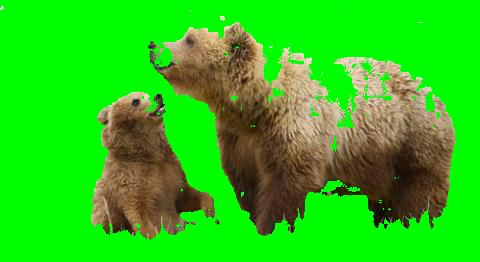
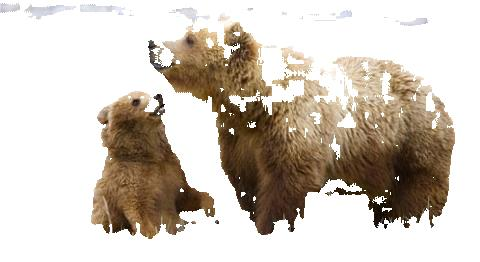
stuff

diff --git a/ForegroundDetection/src/main/java/Release/ForegroundDetection.java b/ForegroundDetection/src/main/java/Release/ForegroundDetection.java
@@ -33,7 +33,7 @@ public class ForegroundDetection {
     BasicNetwork network;
     BufferedImage image;
     int numberOfRegions;
-    double threshold = 0.85;
+    double threshold = 0.9;
     
     public ForegroundDetection(String path){
         network = (BasicNetwork)EncogDirectoryPersistence.loadObject(new File(path));
@@ -42,7 +42,7 @@ public class ForegroundDetection {
         
         BufferedImage image2 = ImageIO.read(new File(path));
         image = ImageIO.read(new File(path));
-        ImageProcessing.blur(image2, image);
+        //ImageProcessing.blur(image2, image);
         foreground = new int[image.getWidth()][image.getHeight()];
     }
     public BufferedImage getForegroundPixels(String path){
@@ -152,13 +152,16 @@ public class ForegroundDetection {
                 //System.out.println(perc+"");
                 
                 if(regions[x][y]==index){
-                    image.setRGB(x, y, Color.WHITE.getRGB());
+                    image.setRGB(x, y, Color.BLACK.getRGB());
+                }
+                else if(regions[x][y]==0){
+                   image.setRGB(x,y, Color.BLACK.getRGB());
                 }
                 else{
                 
                 //image.setRGB(x, y, Color.WHITE.getRGB());
-                if(perc>0.9){
-                    image.setRGB(x, y, Color.WHITE.getRGB());
+                if(perc>0.7){
+                    image.setRGB(x, y, Color.BLACK.getRGB());
                     //System.out.println(perc);
                 }
              
@@ -172,11 +175,12 @@ public class ForegroundDetection {
     }
     public void generateRegions(String path){
         ImageSegmentation ig = new ImageSegmentation(path);
-        ig.generateSeeds(1000);
-        ig.setThreshold(30);
+        ig.generateSeeds(500);
+        ig.setThreshold(42);
         ig.setMergeThreshold(20);
         
         numberOfRegions = ig.growRegion();
+        ig.testImage();
         ig.testMergeImage();
         regions = ig.returnRegions();
     }

diff --git a/ForegroundDetection/src/main/java/ImageSegmentation/ImageSegmentation.java b/ForegroundDetection/src/main/java/ImageSegmentation/ImageSegmentation.java
@@ -35,12 +35,14 @@ public class ImageSegmentation {
     BufferedImage mergeImage;
     int mergeThreshold = 40;
     int threshold = 100;
+    String filename = "";
     
     
     public ImageSegmentation(String path){
         seeds = new ArrayList<>();
         colors = new ArrayList<>();
         try {
+            filename = new File(path).getName();
             BufferedImage tempimage = ImageIO.read(new File(path));
             image = ImageIO.read(new File(path));
             image = ImageProcessing.blur(tempimage, image);
@@ -387,13 +389,7 @@ public class ImageSegmentation {
 
             }
         
-        int n = regions[5][5];
-        System.out.println("DEBUG "+n);
-        for(int x=0; x<regions.length; x++)
-            for(int y=0; y<regions[0].length; y++)
-                if(regions[x][y]==n){
-                mergeImage.setRGB(x, y, rgbRed);
-                }
+      
         
         mColors = mergedColors;
         return mergedColors.size();
@@ -451,6 +447,11 @@ public class ImageSegmentation {
         JFrame frame = new JFrame();
         JPanel panel = new JPanel();
         
+           try {
+            ImageIO.write(image, "jpg", new File("mainout/um"+filename));
+        } catch (IOException ex) {
+            Logger.getLogger(ImageSegmentation.class.getName()).log(Level.SEVERE, null, ex);
+        }
         ImageIcon img = new ImageIcon(image);
         
         JLabel imgLabel = new JLabel(img);
@@ -464,6 +465,11 @@ public class ImageSegmentation {
     public void testMergeImage(){
         JFrame frame = new JFrame();
         JPanel panel = new JPanel();
+        try {
+            ImageIO.write(mergeImage, "jpg", new File("mainout/m"+filename));
+        } catch (IOException ex) {
+            Logger.getLogger(ImageSegmentation.class.getName()).log(Level.SEVERE, null, ex);
+        }
         
         ImageIcon img = new ImageIcon(mergeImage);
         

diff --git a/ForegroundDetection/src/main/java/Release/Test.java b/ForegroundDetection/src/main/java/Release/Test.java
@@ -6,9 +6,11 @@
 package Release;
 
 import java.awt.image.BufferedImage;
+import java.io.File;
 import java.io.IOException;
 import java.util.logging.Level;
 import java.util.logging.Logger;
+import javax.imageio.ImageIO;
 import javax.swing.ImageIcon;
 import javax.swing.JFrame;
 import javax.swing.JLabel;
@@ -22,12 +24,15 @@ public class Test {
     public static void main(String[] args) throws IOException{
     
         ForegroundDetection fd = new ForegroundDetection("rgbtrain.eg");
-        String path = "assets/catka.jpg";
+        String filename = "elephant.jpg";
+        String path = "assets/"+filename;
         fd.setImage(path);
              
             BufferedImage image = fd.getForegroundPixels(path);
             fd.generateRegions(path);
             fd.thresholdRegions();
+            
+            ImageIO.write(image, "jpg", new File("mainout/"+filename));
             JFrame frame = new JFrame();
             JPanel panel = new JPanel();
         

diff --git a/ForegroundDetection/src/main/java/com/puzzled/foregrounddetection/TestNetwork.java b/ForegroundDetection/src/main/java/com/puzzled/foregrounddetection/TestNetwork.java
@@ -131,8 +131,8 @@ public class TestNetwork {
                     
 
 
-                    if(output.getData(0)>=0.95){
-                         image.setRGB(i, y, colors[2].getRGB());
+                    if(output.getData(0)>=0.9){
+                         image.setRGB(i, y, Color.WHITE.getRGB());
                         //image.setRGB(i, y, rgbRed);
                         //System.out.println(Arrays.toString(output.getData()));
                     }
